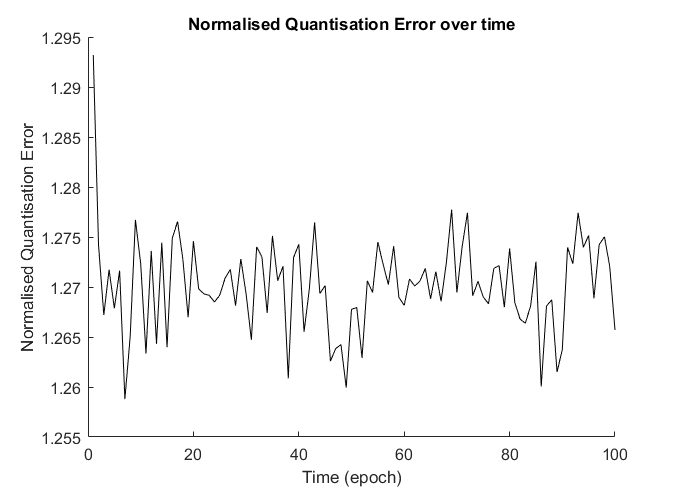
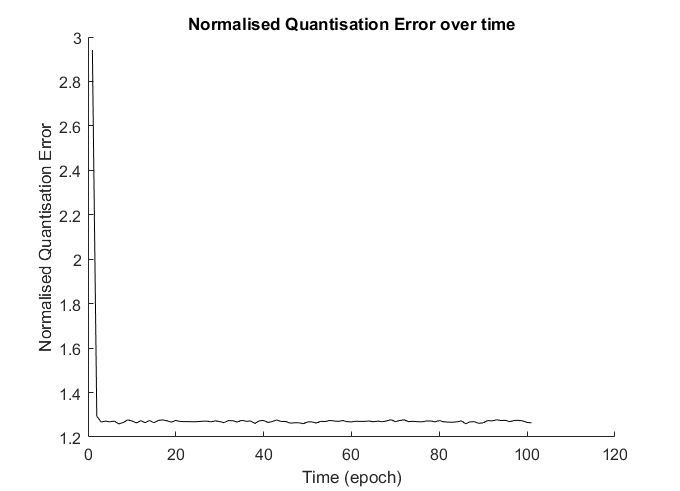
updated images lab5

diff --git a/Lab 5/lab_5.m b/Lab 5/lab_5.m
@@ -27,7 +27,7 @@ colour_init_4 = (magenta + white*2)./3;
 
 % Initialise variables.
 [P, N] = size(data);
-K = 4;
+K = 2;
 learning_rate = 0.1;
 t_max = 100;
 
